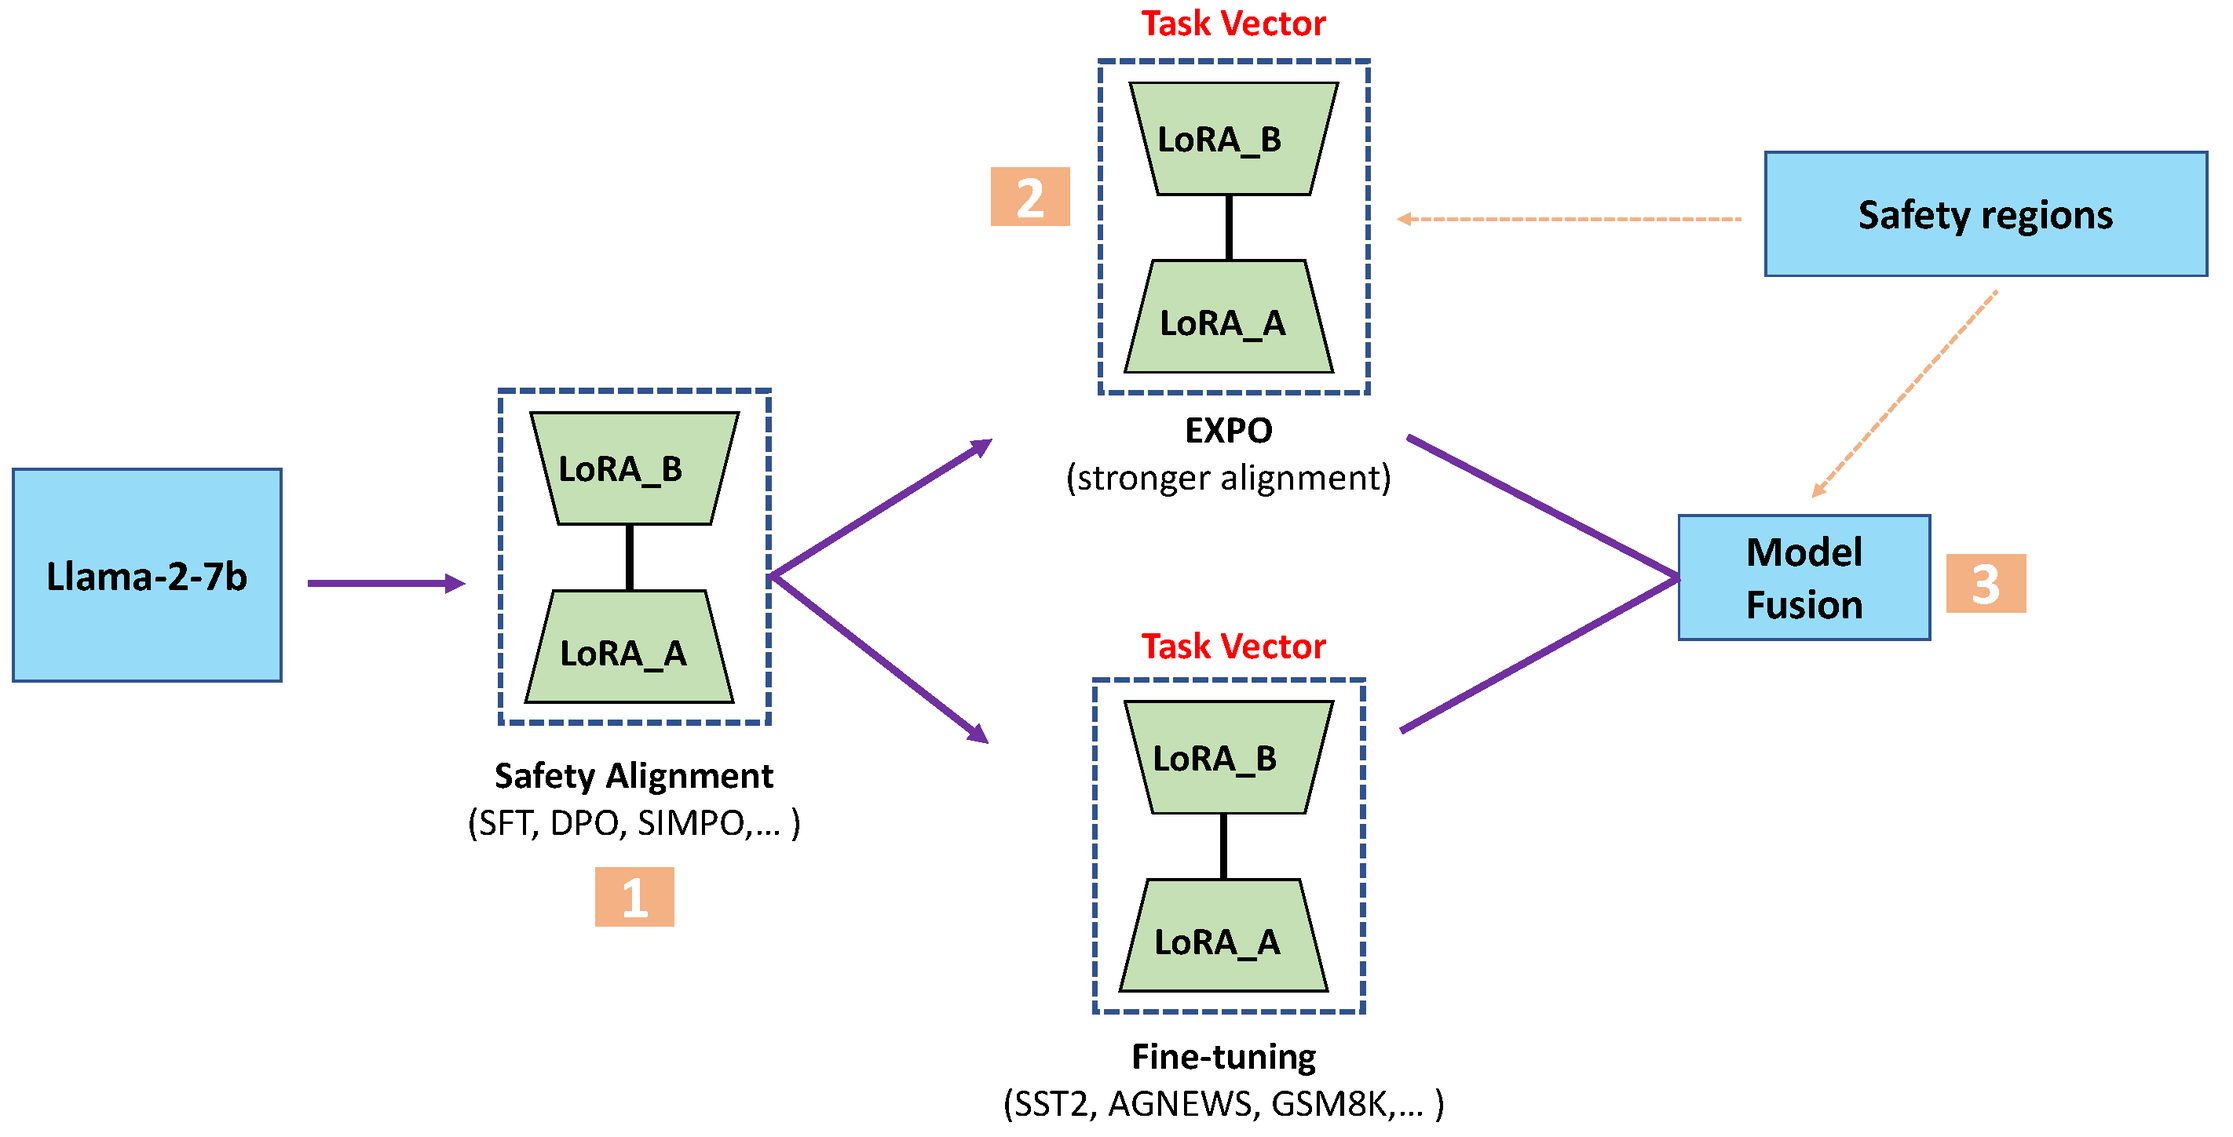
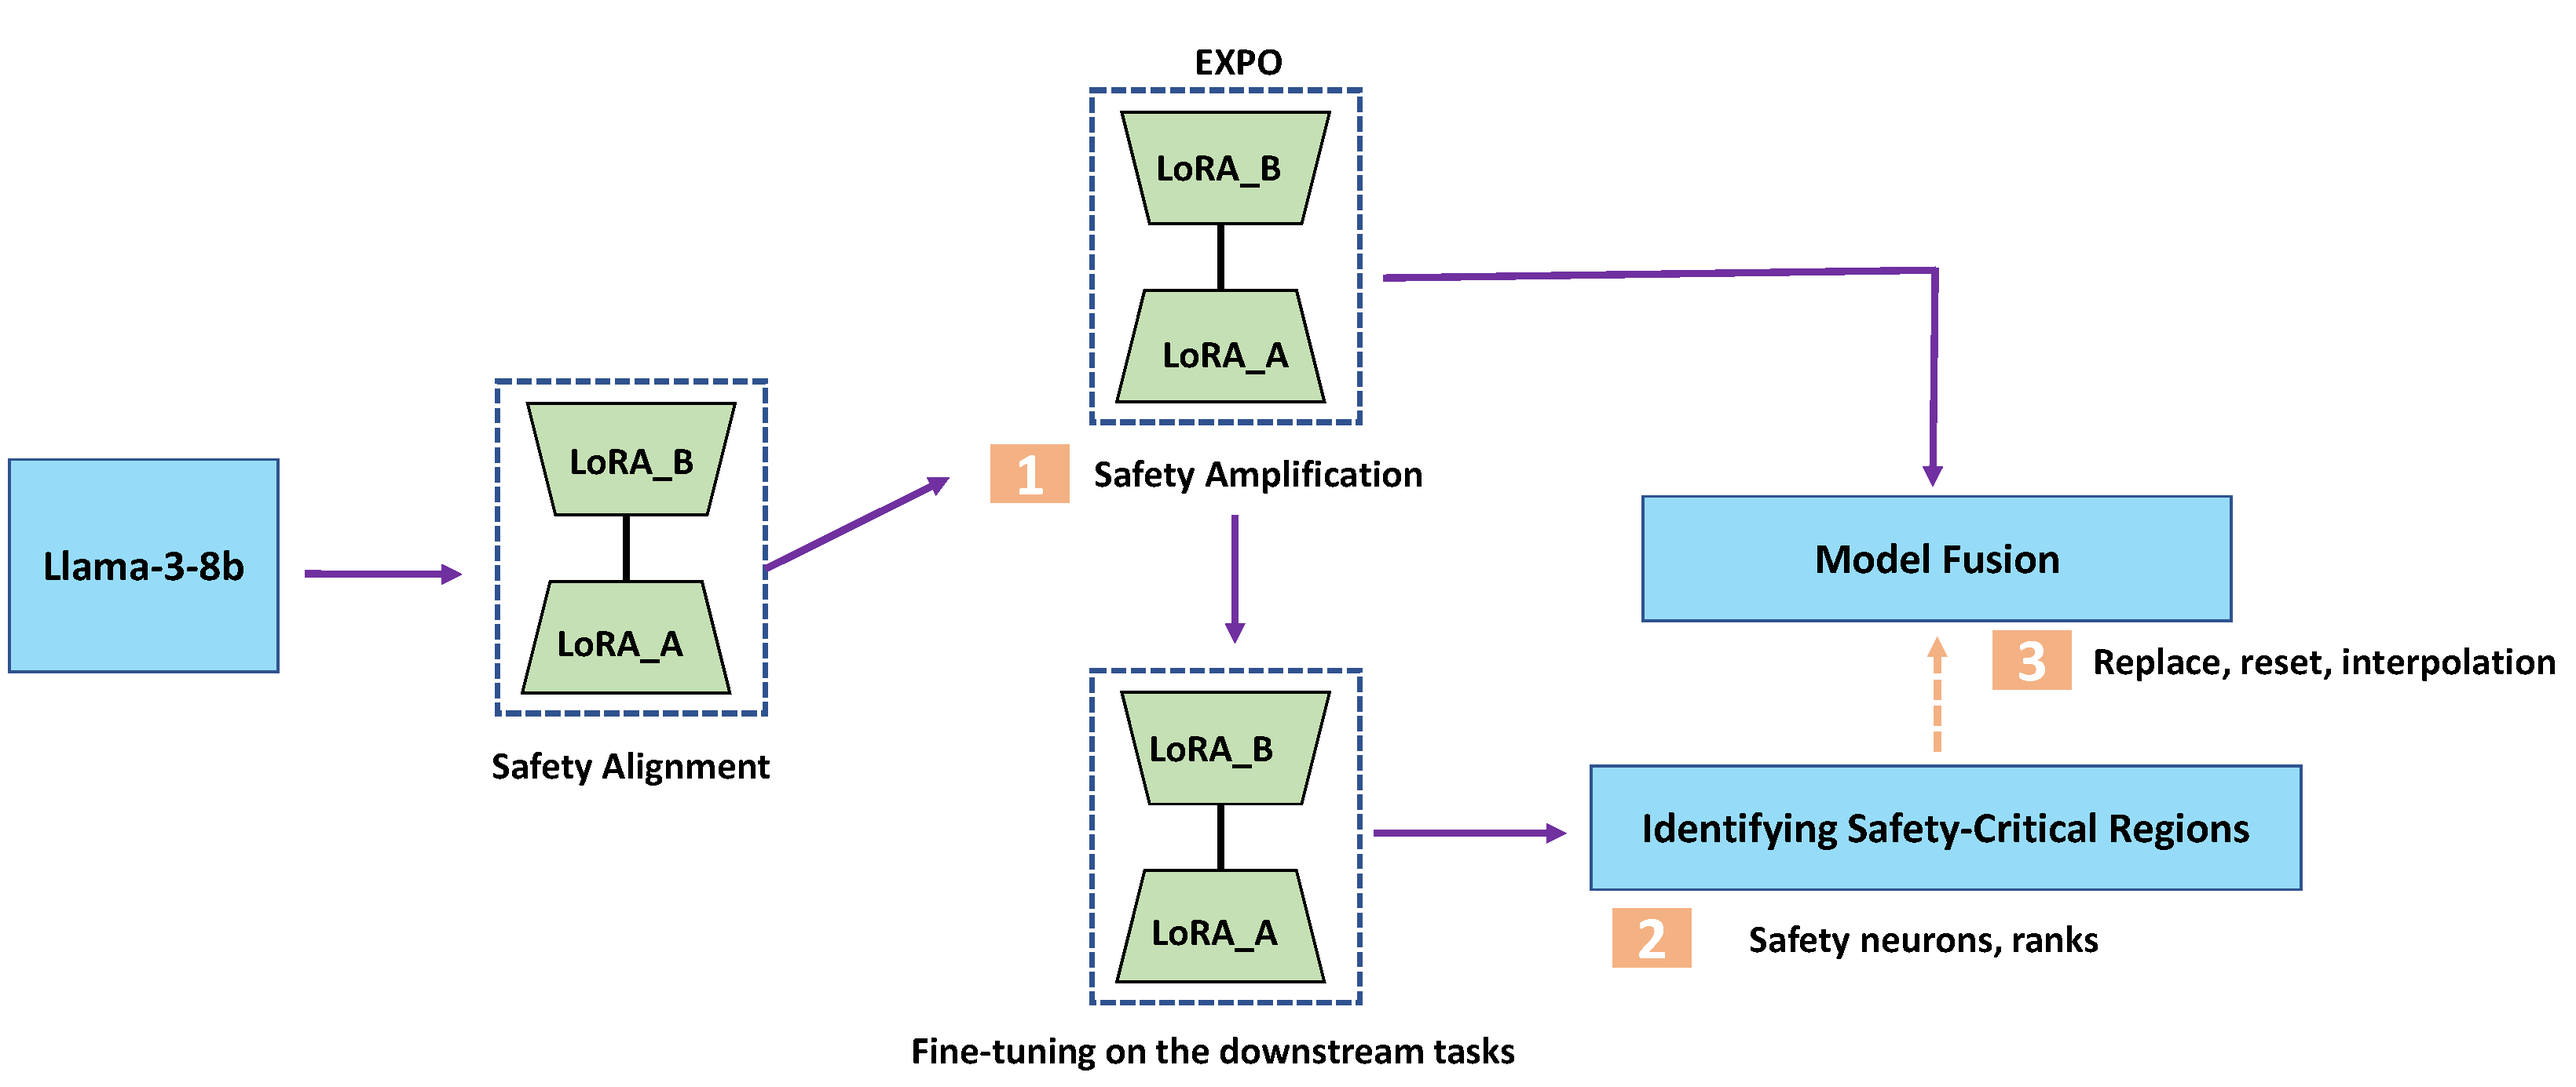
overview

diff --git a/README.md b/README.md
@@ -1,7 +1,7 @@
-# Assessing the safety re-alignment via model fusion 
+# Safety Realignment of Large Language Models via Restoration and Augmentation of Safety Neruons
 ![image](overview.png)
 
-# 1. Alignment and Fine-tuning Attack
+# 1. Fine-tuning Attack
 ### Safety Alignment Approach
 - [x] [SFT] (path: /home/yx/project_v2/saves/lora/sft)
 - [x] [DPO]  (path: /home/yx/project_v2/saves/lora/dpo)
@@ -38,7 +38,7 @@
 
 ### Fine-tuning Attack
 
-# 2. Stronger Alignment ([EXPO](https://arxiv.org/abs/2404.16792))
+# 2. Amplification Safety ([EXPO](https://arxiv.org/abs/2404.16792))
 
 ### Source Model
 - [X] [SFT]
@@ -51,29 +51,37 @@
 | Expo Methods | alpha | Harmful Score |
 |:------------:|:-----:|:-------------:|
 | DPO          | -     |     26.2      |
-| DPO+EXPO     | 0.9   |     10.6      |
+| DPO+EXPO     | 0.9   |      0.6      |
 | ORPO         | -     |     34.5      |
-| ORPO+EXPO    | 0.9   |     28.7      |
+| ORPO+EXPO    | 0.9   |     24.0      |
 | KTO          | -     |     16.1      |
-| KTO+EXPO     | 0.9   |      5.4      |
+| KTO+EXPO     | 0.9   |      0.9      |
 | SimPO        | -     |     26.8      |
-| SimPO+EXPO   | 0.9   |     10.4      |
+| SimPO+EXPO   | 0.9   |      0.4      |
 
-### Removing the least safety-critical neroens
+
+# 3. Identifying safety-critical neroens
+## [Neuron Level](https://arxiv.org/abs/2402.05162)
 - [ ] [SNIP score]
 - [ ] [Wanda score]
+## [Rank Level](https://arxiv.org/abs/2402.05162)
 
 
-# 3. Model Fusion
-### Base Methods
-- [ ] [Weight averaging]
-- [ ] [Task Arithmetic]
-- [ ] [TIES](http://arxiv.org/abs/2306.01708v2)
-- [ ] [Consensus TA](https://arxiv.org/abs/2405.07813)
-- [ ] [Consensus TIES](https://arxiv.org/abs/2405.07813)
+# 4. Model Fusion
+
+[//]: # (### Base Methods)
+
+[//]: # (- [ ] [Weight averaging])
+
+[//]: # (- [ ] [Task Arithmetic])
+
+[//]: # (- [ ] [TIES]&#40;http://arxiv.org/abs/2306.01708v2&#41;)
+
+[//]: # (- [ ] [Consensus TA]&#40;https://arxiv.org/abs/2405.07813&#41;)
+
+[//]: # (- [ ] [Consensus TIES]&#40;https://arxiv.org/abs/2405.07813&#41;)
 
 
 ### Fusion in the Safety Regions
-- [ ] [Neuron Level](https://arxiv.org/abs/2402.05162)
-- [ ] [Rank Level](https://arxiv.org/abs/2402.05162)
-- [ ] [Attention Level](https://arxiv.org/abs/2406.01563)
+
+[//]: # (- [ ] [Attention Level]&#40;https://arxiv.org/abs/2406.01563&#41;)
